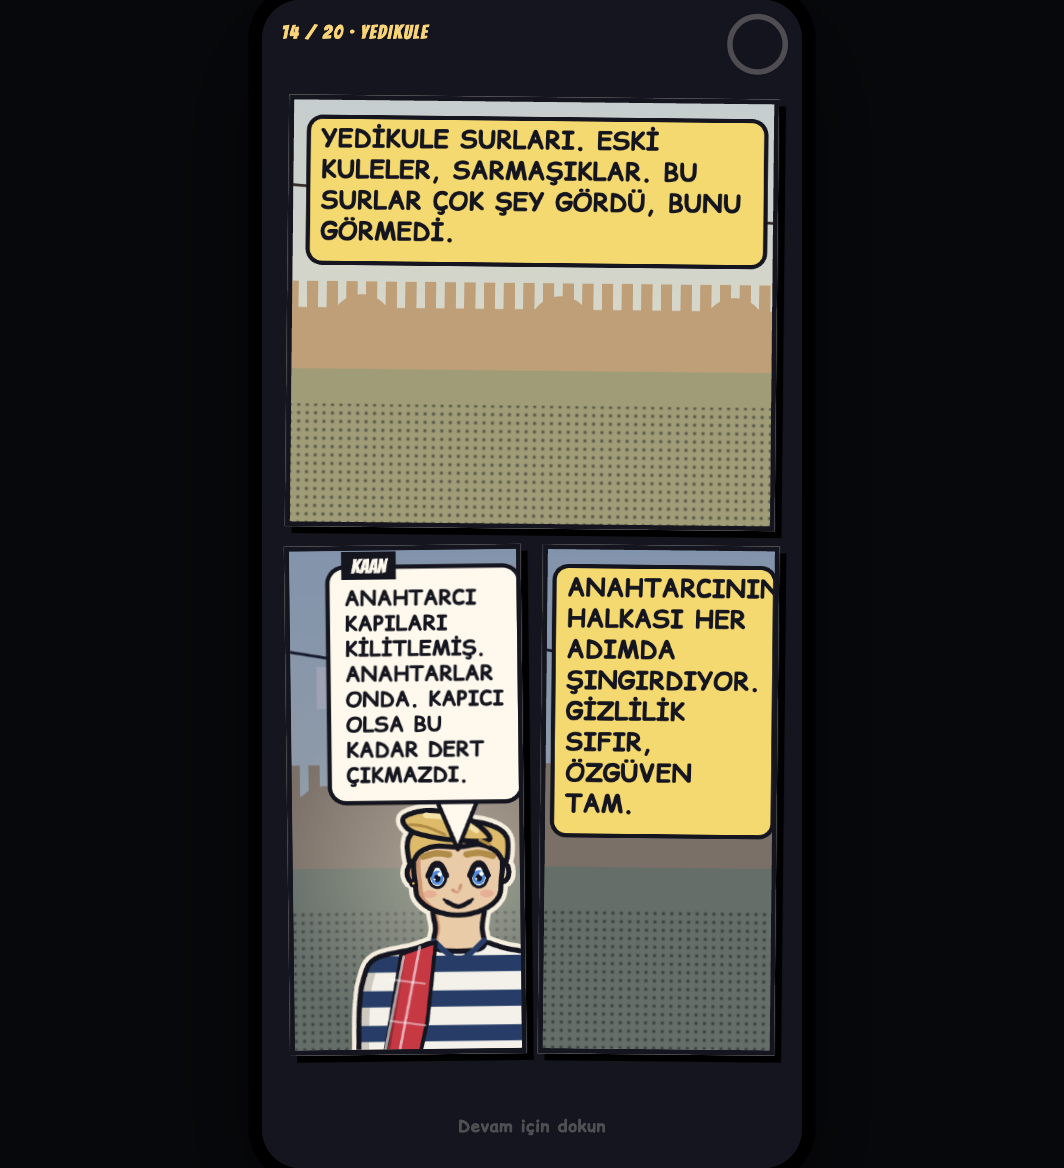
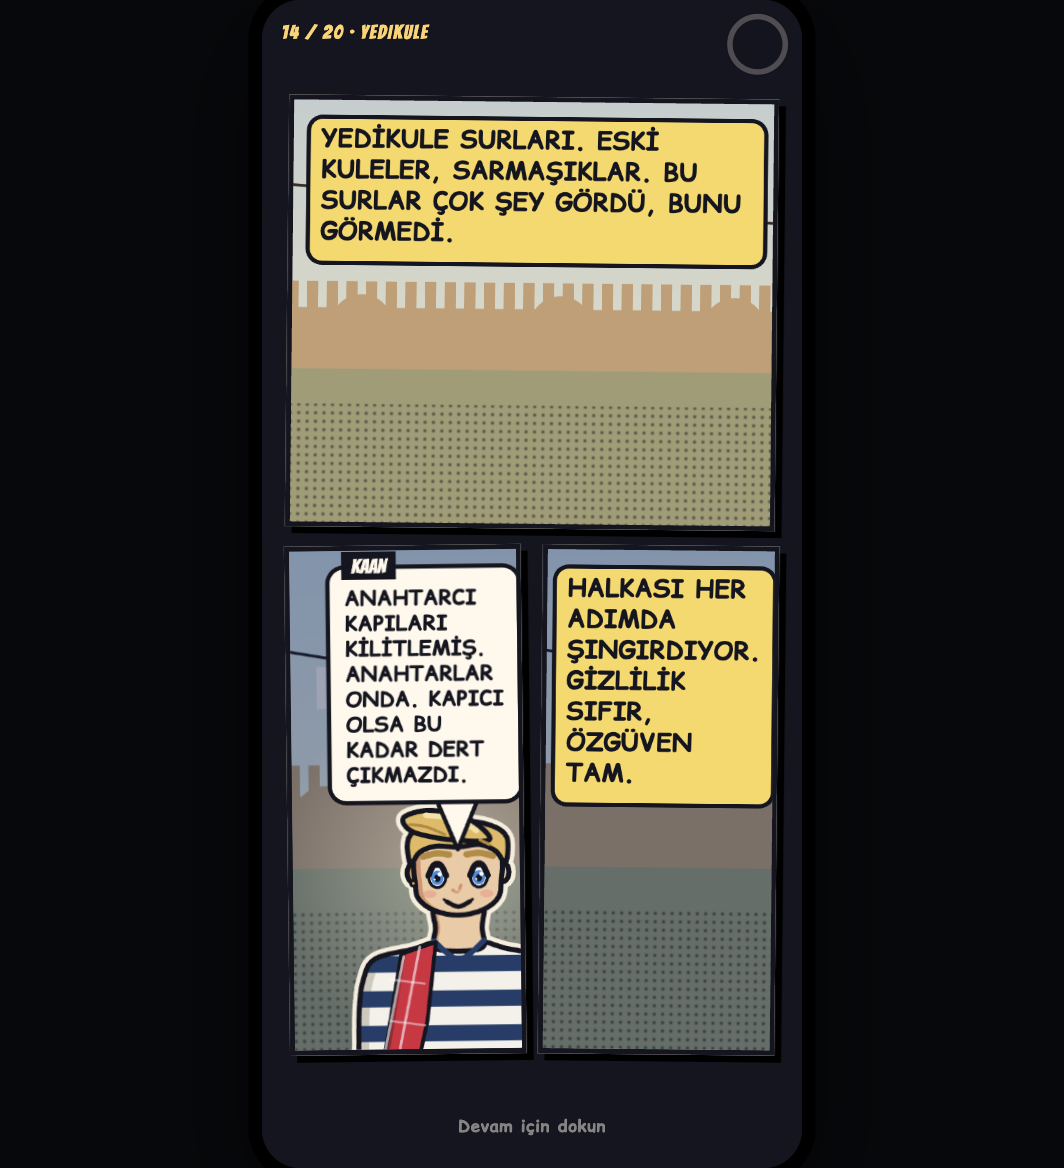
dialogue: H14i3a (TR) shorter wording so the caption no longer clips, re-captured at 390x844

Changed region(s): [[0.4962, 0.4932, 0.7444, 0.7397], [0.4342, 0.9555, 0.5583, 0.9863]]

diff --git a/prototype/js/dialogue/tr/story-hoods-11-20.js b/prototype/js/dialogue/tr/story-hoods-11-20.js
@@ -28,7 +28,7 @@ Object.assign(P.DLG.tr, {
   "H14b": [{ t: "Bu kapının anahtarı bende! Yedeği yok! Kopyalatmam!", ok: 1 }],
   "H14i1a": [{ t: "Yedikule surları. Eski kuleler, sarmaşıklar. Bu surlar çok şey gördü, bunu görmedi.", ok: 1 }],
   "H14i2a": [{ t: "Anahtarcı kapıları kilitlemiş. Anahtarlar onda. Kapıcı olsa bu kadar dert çıkmazdı.", ok: 1 }],
-  "H14i3a": [{ t: "Anahtarcının halkası her adımda şıngırdıyor. Gizlilik sıfır, özgüven tam.", ok: 1 }],
+  "H14i3a": [{ t: "Halkası her adımda şıngırdıyor. Gizlilik sıfır, özgüven tam.", ok: 1 }],
   "H14p1": [{ t: "Surun üstünde yürüyoruz. Dar ama sağlam. Bin beş yüz yıllık garanti.", ok: 1 }],
   "H14p2": [{ t: "Üç anahtar bulalım, kapıyı açalım. Anahtarcı hepsini saklamış, cimri.", ok: 1 }],
   "H14p3": [{ t: "Çay bahçesinin masaları yolu kesiyor. Çay yok, masa bol. Bu şehrin özeti.", ok: 1 }],

diff --git a/reviews/dialogue/FINDINGS-en-C.md b/reviews/dialogue/FINDINGS-en-C.md
@@ -50,7 +50,7 @@ All 1,160 English lines (A 505, B 175, C 480) are marked approved (`ok: 1`) thro
 ## 7. Browser sweep at 390×844 (2026-11-10)
 
 17 pages (14 hood intros H07 to H20, finale A and B, campfire) in EN and TR, 34 screenshots in `reviews/media/dialogue/<lang>-<pageId>.png`.
-- **Text clipped: 1 line.** `H14i3a` TR: the first word "Anahtarcının" is wider than its caption and loses its last letter at the panel edge. Proposed fix (owner's text, not changed): "Halkası her adımda şıngırdıyor. Gizlilik sıfır, özgüven tam."
+- **Text clipped: 1 line.** `H14i3a` TR: the first word "Anahtarcının" is wider than its caption and loses its last letter at the panel edge. **Fixed 2026-11-10 (owner approved):** "Halkası her adımda şıngırdıyor. Gizlilik sıfır, özgüven tam."
 - **Touching, not clipped: 1 line.** `H11i3a` TR: "direksiyonda" reaches about 3 px from the caption border.
 - **Layout (not caused by the text, same in both languages):** where two speakers stack vertically, the second name tag sits on the bottom border of the bubble above (H07i3, H10i2, H19i2, FINa, FINb). On H10i2 and H19i2 the Kaan tail also crosses the Arda bubble. The "KNOCK KNOCK!" / "TAK TAK!" SFX looks cut at the panel bottom on FINb (verify at full resolution). This is `view/comic-layout.js` work, not dialogue.
 - No wrong portrait, speaker label or language seen.
